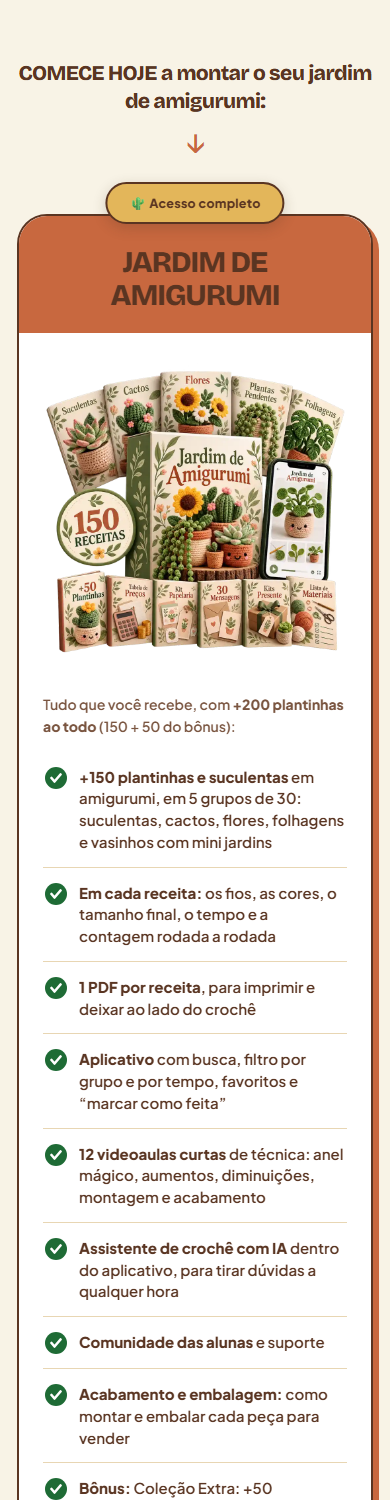
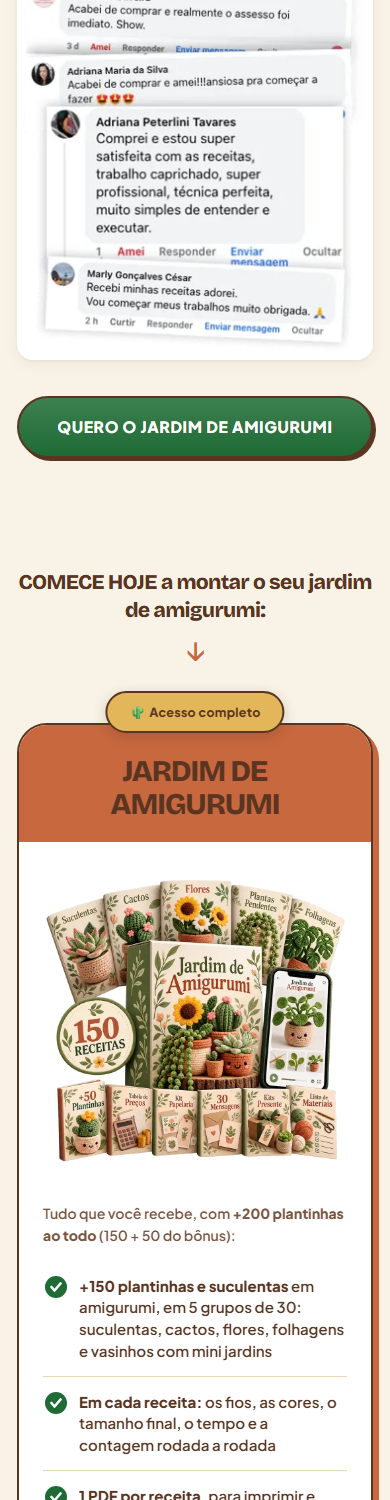
jardim: recolocar imagens

diff --git a/saidas/modelagem/2026-10-23-plantas-amigurumi/banner.html b/saidas/modelagem/2026-10-23-plantas-amigurumi/banner.html
@@ -1,0 +1,48 @@
+<!doctype html><html><head><meta charset="utf-8">
+<link href="https://fonts.googleapis.com/css2?family=Poppins:wght@600;700;800;900&display=swap" rel="stylesheet">
+<style>
+:root{--a:#B3532F;--a2:#8A3F22;--t:#2F4A2C;--c:#F6F1E4}
+*{box-sizing:border-box;margin:0;padding:0}
+html,body{width:1024px;height:400px;overflow:hidden}
+body{font-family:'Poppins',sans-serif;display:flex;align-items:center;padding:0 14px 0 6px;position:relative;
+ background:linear-gradient(118deg,var(--c) 0%,color-mix(in srgb,var(--c) 70%,var(--a)) 55%,color-mix(in srgb,var(--c) 45%,var(--a)) 100%)}
+.bg{position:absolute;inset:0;overflow:hidden;z-index:0}
+.bl{position:absolute;border-radius:50%;filter:blur(48px)}
+.b1{width:430px;height:430px;left:-70px;top:-50px;background:color-mix(in srgb,var(--a) 55%,#fff);opacity:.7}
+.b2{width:380px;height:380px;right:-100px;top:-160px;background:var(--a);opacity:.42}
+.b3{width:320px;height:320px;right:200px;bottom:-210px;background:color-mix(in srgb,var(--a2) 60%,#ffb0a0);opacity:.4}
+.dots{position:absolute;inset:0;background-image:radial-gradient(color-mix(in srgb,var(--a2) 28%,transparent) 1.3px,transparent 1.4px);background-size:18px 18px;
+ -webkit-mask-image:linear-gradient(90deg,transparent 35%,#000 72%);mask-image:linear-gradient(90deg,transparent 35%,#000 72%)}
+.risco{position:absolute;width:900px;height:120px;left:120px;top:120px;transform:rotate(-14deg);
+ background:linear-gradient(90deg,transparent,rgba(255,255,255,.5),transparent)}
+.anel{position:absolute;width:350px;height:350px;left:16px;top:25px;border-radius:50%;border:2px dashed color-mix(in srgb,var(--a) 45%,transparent);opacity:.55}
+.pack{flex:0 0 var(--packw,372px);min-width:0;height:400px;display:flex;align-items:center;justify-content:center;position:relative;z-index:1}
+.pack::before{content:'';position:absolute;width:350px;height:350px;border-radius:50%;
+ background:radial-gradient(circle,#fff 0%,rgba(255,255,255,.75) 38%,rgba(255,255,255,0) 70%)}
+.pack img{position:relative;max-width:min(380px,100%);max-height:384px;filter:drop-shadow(0 18px 22px color-mix(in srgb,var(--t) 40%,transparent))}
+.lado{flex:1;min-width:0;position:relative;z-index:1;padding:0 0 0 42px} /* respiro entre o pack e o texto (pedido dela) */
+/* 14/10 (2ª rodada dela): sem caixa branca; título SEMPRE numa linha; lista bem grande, que se lê no celular
+   (o banner aparece com ~400px de largura, menos da metade do tamanho original). */
+h1{font-weight:900;font-size:35px;line-height:1.02;letter-spacing:-.8px;white-space:nowrap;
+ color:color-mix(in srgb,var(--a2) 82%,#000);text-shadow:0 2px 0 rgba(255,255,255,.75)} /* 14/10: cor sólida e escura (o degradê sumia no fundo) */
+.barra{width:84px;height:7px;border-radius:7px;margin:10px 0 14px;background:linear-gradient(90deg,var(--a2),var(--a))}
+ul{list-style:none;display:flex;flex-direction:column;gap:9px}
+li{display:flex;align-items:center;gap:14px;font-weight:700;color:var(--t);font-size:26px;line-height:1.08;letter-spacing:-.2px;white-space:nowrap;
+ text-shadow:0 1px 0 rgba(255,255,255,.7)}
+li span.tx{min-width:0;overflow:visible}
+.ck{flex:0 0 40px;height:40px;border-radius:11px;position:relative;overflow:hidden;
+ background:linear-gradient(135deg,var(--a),var(--a2));display:flex;align-items:center;justify-content:center;
+ box-shadow:0 3px 0 color-mix(in srgb,var(--a2) 80%,#000),0 8px 14px -6px color-mix(in srgb,var(--a2) 70%,transparent)}
+.ck::after{content:'';position:absolute;left:-30%;top:-60%;width:120%;height:70%;background:rgba(255,255,255,.35);transform:rotate(-20deg)}
+.ck svg{position:relative;width:26px;height:26px;stroke:#fff;stroke-width:3.8;fill:none;stroke-linecap:round;stroke-linejoin:round}
+</style></head><body>
+<div class="bg"><div class="bl b1"></div><div class="bl b2"></div><div class="bl b3"></div><div class="dots"></div><div class="risco"></div><div class="anel"></div></div>
+<div class="pack"><img src="file:///C:/Users/maria/Desktop/harness-ofertas/saidas/modelagem/2026-10-23-plantas-amigurumi/pack-completo.png"></div>
+<div class="lado"><h1>JARDIM DE AMIGURUMI</h1><div class="barra"></div><ul>
+<li><span class="ck"><svg viewBox="0 0 24 24"><path d="M5 12.5l4.5 4.5L19 7.5"/></svg></span><span class="tx">+150 PLANTINHAS E SUCULENTAS</span></li>
+<li><span class="ck"><svg viewBox="0 0 24 24"><path d="M5 12.5l4.5 4.5L19 7.5"/></svg></span><span class="tx">A CONTAGEM DE CADA RODADA</span></li>
+<li><span class="ck"><svg viewBox="0 0 24 24"><path d="M5 12.5l4.5 4.5L19 7.5"/></svg></span><span class="tx">8 VIDEOAULAS PASSO A PASSO</span></li>
+<li><span class="ck"><svg viewBox="0 0 24 24"><path d="M5 12.5l4.5 4.5L19 7.5"/></svg></span><span class="tx">TABELA DE PREÇOS INCLUÍDA</span></li>
+<li><span class="ck"><svg viewBox="0 0 24 24"><path d="M5 12.5l4.5 4.5L19 7.5"/></svg></span><span class="tx">ACESSO IMEDIATO E VITALÍCIO</span></li>
+<li><span class="ck"><svg viewBox="0 0 24 24"><path d="M5 12.5l4.5 4.5L19 7.5"/></svg></span><span class="tx">6 BÔNUS EXCLUSIVOS</span></li>
+</ul></div></body></html>

diff --git a/saidas/modelagem/2026-10-23-plantas-amigurumi/04-pagina.html b/saidas/modelagem/2026-10-23-plantas-amigurumi/04-pagina.html
@@ -25,6 +25,7 @@
 .chuva-pao span{position:absolute;top:-70px;left:var(--x);font-size:var(--t);opacity:0;animation:caiPao var(--d) linear var(--a) infinite;will-change:transform}
 @keyframes caiPao{0%{transform:translate3d(0,0,0) rotate(0deg);opacity:0}8%{opacity:.5}85%{opacity:.5}100%{transform:translate3d(var(--v),1150px,0) rotate(var(--r));opacity:0}}
 @media (prefers-reduced-motion:reduce){.chuva-pao{display:none}}@media (prefers-reduced-motion:reduce){.rv{opacity:1!important;transform:none!important}}</style>
+<script src="https://checkout.atomify.com.br/t.js?p=cmvlinupr0011jt08rvg7lsfd" async></script>
 </head>
 <body>
 <div class="progress-bar" id="progressBar"></div>

diff --git a/saidas/modelagem/2026-10-23-plantas-amigurumi/conferencia-visual/conferencia-visual.md b/saidas/modelagem/2026-10-23-plantas-amigurumi/conferencia-visual/conferencia-visual.md
@@ -1,13 +1,13 @@
 # Conferência visual de 04-pagina.html
 
 ### celular
-- imagens visíveis: 74 · sem texto alternativo: 0
+- imagens visíveis: 59 · sem texto alternativo: 0
 - fotos: 12 (em conferencia-visual/)
 ### computador
-- imagens visíveis: 74 · sem texto alternativo: 0
-- fotos: 12 (em conferencia-visual/)
+- imagens visíveis: 59 · sem texto alternativo: 0
+- fotos: 13 (em conferencia-visual/)
 
-## 168 problema(s), 0 aviso(s)
+## 136 problema(s), 0 aviso(s)
 - PROBLEMA celular: imagem QUEBRADA [demo] img (não carregou) → ertas/imagens/jardim-de-amigurumi/galeria-03.webp?v=363d4265
 - PROBLEMA celular: imagem QUEBRADA [demo] img (não carregou) → ertas/imagens/jardim-de-amigurumi/galeria-04.webp?v=dcaf8b36
 - PROBLEMA celular: imagem QUEBRADA [demo] img (não carregou) → ertas/imagens/jardim-de-amigurumi/galeria-05.webp?v=7efe83c1
@@ -46,22 +46,6 @@
 - PROBLEMA celular: imagem QUEBRADA [demo] img (não carregou) → fertas/imagens/jardim-de-amigurumi/receita-3.webp?v=bfa49e44
 - PROBLEMA celular: imagem QUEBRADA [demo] img (não carregou) → fertas/imagens/jardim-de-amigurumi/receita-4.webp?v=9b6c26d3
 - PROBLEMA celular: imagem QUEBRADA [demo] img (não carregou) → fertas/imagens/jardim-de-amigurumi/receita-5.webp?v=604df722
-- PROBLEMA celular: imagem QUEBRADA [depoimentos] img → m/2026-10-23-plantas-amigurumi/%7B%7BIMG:depoimentos:1%7D%7D
-- PROBLEMA celular: imagem QUEBRADA [depoimentos] img → m/2026-10-23-plantas-amigurumi/%7B%7BIMG:depoimentos:2%7D%7D
-- PROBLEMA celular: imagem QUEBRADA [depoimentos] img → m/2026-10-23-plantas-amigurumi/%7B%7BIMG:depoimentos:3%7D%7D
-- PROBLEMA celular: imagem QUEBRADA [depoimentos] img → m/2026-10-23-plantas-amigurumi/%7B%7BIMG:depoimentos:4%7D%7D
-- PROBLEMA celular: imagem QUEBRADA [depoimentos] img → m/2026-10-23-plantas-amigurumi/%7B%7BIMG:depoimentos:5%7D%7D
-- PROBLEMA celular: imagem QUEBRADA [depoimentos] img → m/2026-10-23-plantas-amigurumi/%7B%7BIMG:depoimentos:6%7D%7D
-- PROBLEMA celular: imagem QUEBRADA [depoimentos] img → m/2026-10-23-plantas-amigurumi/%7B%7BIMG:depoimentos:7%7D%7D
-- PROBLEMA celular: imagem QUEBRADA [depoimentos] img → m/2026-10-23-plantas-amigurumi/%7B%7BIMG:depoimentos:8%7D%7D
-- PROBLEMA celular: imagem QUEBRADA [depoimentos] img (não carregou) → m/2026-10-23-plantas-amigurumi/%7B%7BIMG:depoimentos:1%7D%7D
-- PROBLEMA celular: imagem QUEBRADA [depoimentos] img (não carregou) → m/2026-10-23-plantas-amigurumi/%7B%7BIMG:depoimentos:2%7D%7D
-- PROBLEMA celular: imagem QUEBRADA [depoimentos] img (não carregou) → m/2026-10-23-plantas-amigurumi/%7B%7BIMG:depoimentos:3%7D%7D
-- PROBLEMA celular: imagem QUEBRADA [depoimentos] img (não carregou) → m/2026-10-23-plantas-amigurumi/%7B%7BIMG:depoimentos:4%7D%7D
-- PROBLEMA celular: imagem QUEBRADA [depoimentos] img (não carregou) → m/2026-10-23-plantas-amigurumi/%7B%7BIMG:depoimentos:5%7D%7D
-- PROBLEMA celular: imagem QUEBRADA [depoimentos] img (não carregou) → m/2026-10-23-plantas-amigurumi/%7B%7BIMG:depoimentos:6%7D%7D
-- PROBLEMA celular: imagem QUEBRADA [depoimentos] img (não carregou) → m/2026-10-23-plantas-amigurumi/%7B%7BIMG:depoimentos:7%7D%7D
-- PROBLEMA celular: imagem QUEBRADA [depoimentos] img (não carregou) → m/2026-10-23-plantas-amigurumi/%7B%7BIMG:depoimentos:8%7D%7D
 - PROBLEMA celular: imagem [demo] img passa da caixa carousel-wrapper e é cortada
 - PROBLEMA celular: imagem [demo] img passa da caixa carousel-wrapper e é cortada
 - PROBLEMA celular: [demo] img passa da tela (287 a 549, tela 390)
@@ -130,22 +114,6 @@
 - PROBLEMA computador: imagem QUEBRADA [demo] img (não carregou) → fertas/imagens/jardim-de-amigurumi/receita-3.webp?v=bfa49e44
 - PROBLEMA computador: imagem QUEBRADA [demo] img (não carregou) → fertas/imagens/jardim-de-amigurumi/receita-4.webp?v=9b6c26d3
 - PROBLEMA computador: imagem QUEBRADA [demo] img (não carregou) → fertas/imagens/jardim-de-amigurumi/receita-5.webp?v=604df722
-- PROBLEMA computador: imagem QUEBRADA [depoimentos] img → m/2026-10-23-plantas-amigurumi/%7B%7BIMG:depoimentos:1%7D%7D
-- PROBLEMA computador: imagem QUEBRADA [depoimentos] img → m/2026-10-23-plantas-amigurumi/%7B%7BIMG:depoimentos:2%7D%7D
-- PROBLEMA computador: imagem QUEBRADA [depoimentos] img → m/2026-10-23-plantas-amigurumi/%7B%7BIMG:depoimentos:3%7D%7D
-- PROBLEMA computador: imagem QUEBRADA [depoimentos] img → m/2026-10-23-plantas-amigurumi/%7B%7BIMG:depoimentos:4%7D%7D
-- PROBLEMA computador: imagem QUEBRADA [depoimentos] img → m/2026-10-23-plantas-amigurumi/%7B%7BIMG:depoimentos:5%7D%7D
-- PROBLEMA computador: imagem QUEBRADA [depoimentos] img → m/2026-10-23-plantas-amigurumi/%7B%7BIMG:depoimentos:6%7D%7D
-- PROBLEMA computador: imagem QUEBRADA [depoimentos] img → m/2026-10-23-plantas-amigurumi/%7B%7BIMG:depoimentos:7%7D%7D
-- PROBLEMA computador: imagem QUEBRADA [depoimentos] img → m/2026-10-23-plantas-amigurumi/%7B%7BIMG:depoimentos:8%7D%7D
-- PROBLEMA computador: imagem QUEBRADA [depoimentos] img (não carregou) → m/2026-10-23-plantas-amigurumi/%7B%7BIMG:depoimentos:1%7D%7D
-- PROBLEMA computador: imagem QUEBRADA [depoimentos] img (não carregou) → m/2026-10-23-plantas-amigurumi/%7B%7BIMG:depoimentos:2%7D%7D
-- PROBLEMA computador: imagem QUEBRADA [depoimentos] img (não carregou) → m/2026-10-23-plantas-amigurumi/%7B%7BIMG:depoimentos:3%7D%7D
-- PROBLEMA computador: imagem QUEBRADA [depoimentos] img (não carregou) → m/2026-10-23-plantas-amigurumi/%7B%7BIMG:depoimentos:4%7D%7D
-- PROBLEMA computador: imagem QUEBRADA [depoimentos] img (não carregou) → m/2026-10-23-plantas-amigurumi/%7B%7BIMG:depoimentos:5%7D%7D
-- PROBLEMA computador: imagem QUEBRADA [depoimentos] img (não carregou) → m/2026-10-23-plantas-amigurumi/%7B%7BIMG:depoimentos:6%7D%7D
-- PROBLEMA computador: imagem QUEBRADA [depoimentos] img (não carregou) → m/2026-10-23-plantas-amigurumi/%7B%7BIMG:depoimentos:7%7D%7D
-- PROBLEMA computador: imagem QUEBRADA [depoimentos] img (não carregou) → m/2026-10-23-plantas-amigurumi/%7B%7BIMG:depoimentos:8%7D%7D
 - PROBLEMA computador: imagem [demo] img passa da caixa carousel-wrapper e é cortada
 - PROBLEMA computador: imagem [demo] img passa da caixa carousel-wrapper e é cortada
 - PROBLEMA computador: [demo] carousel-track passa da tela (direita em 9694, tela 1280)
